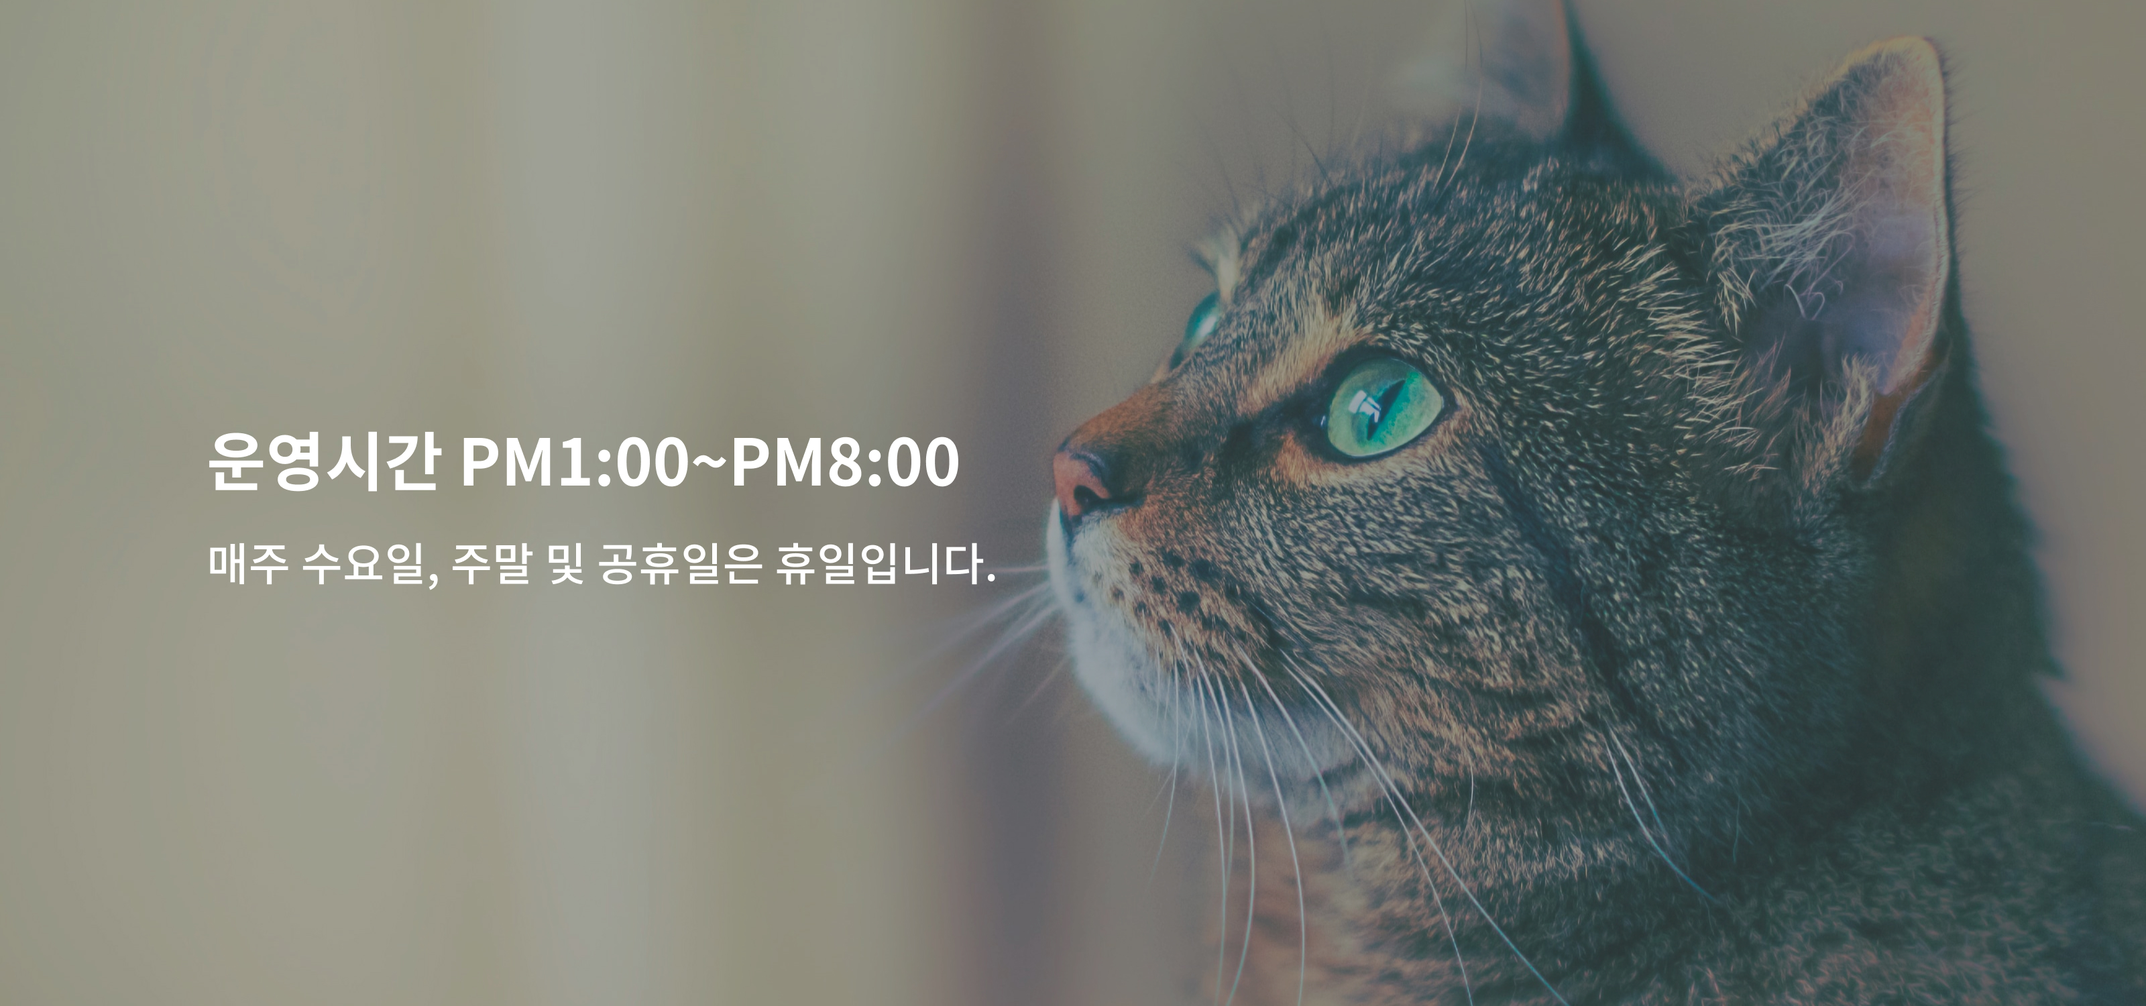
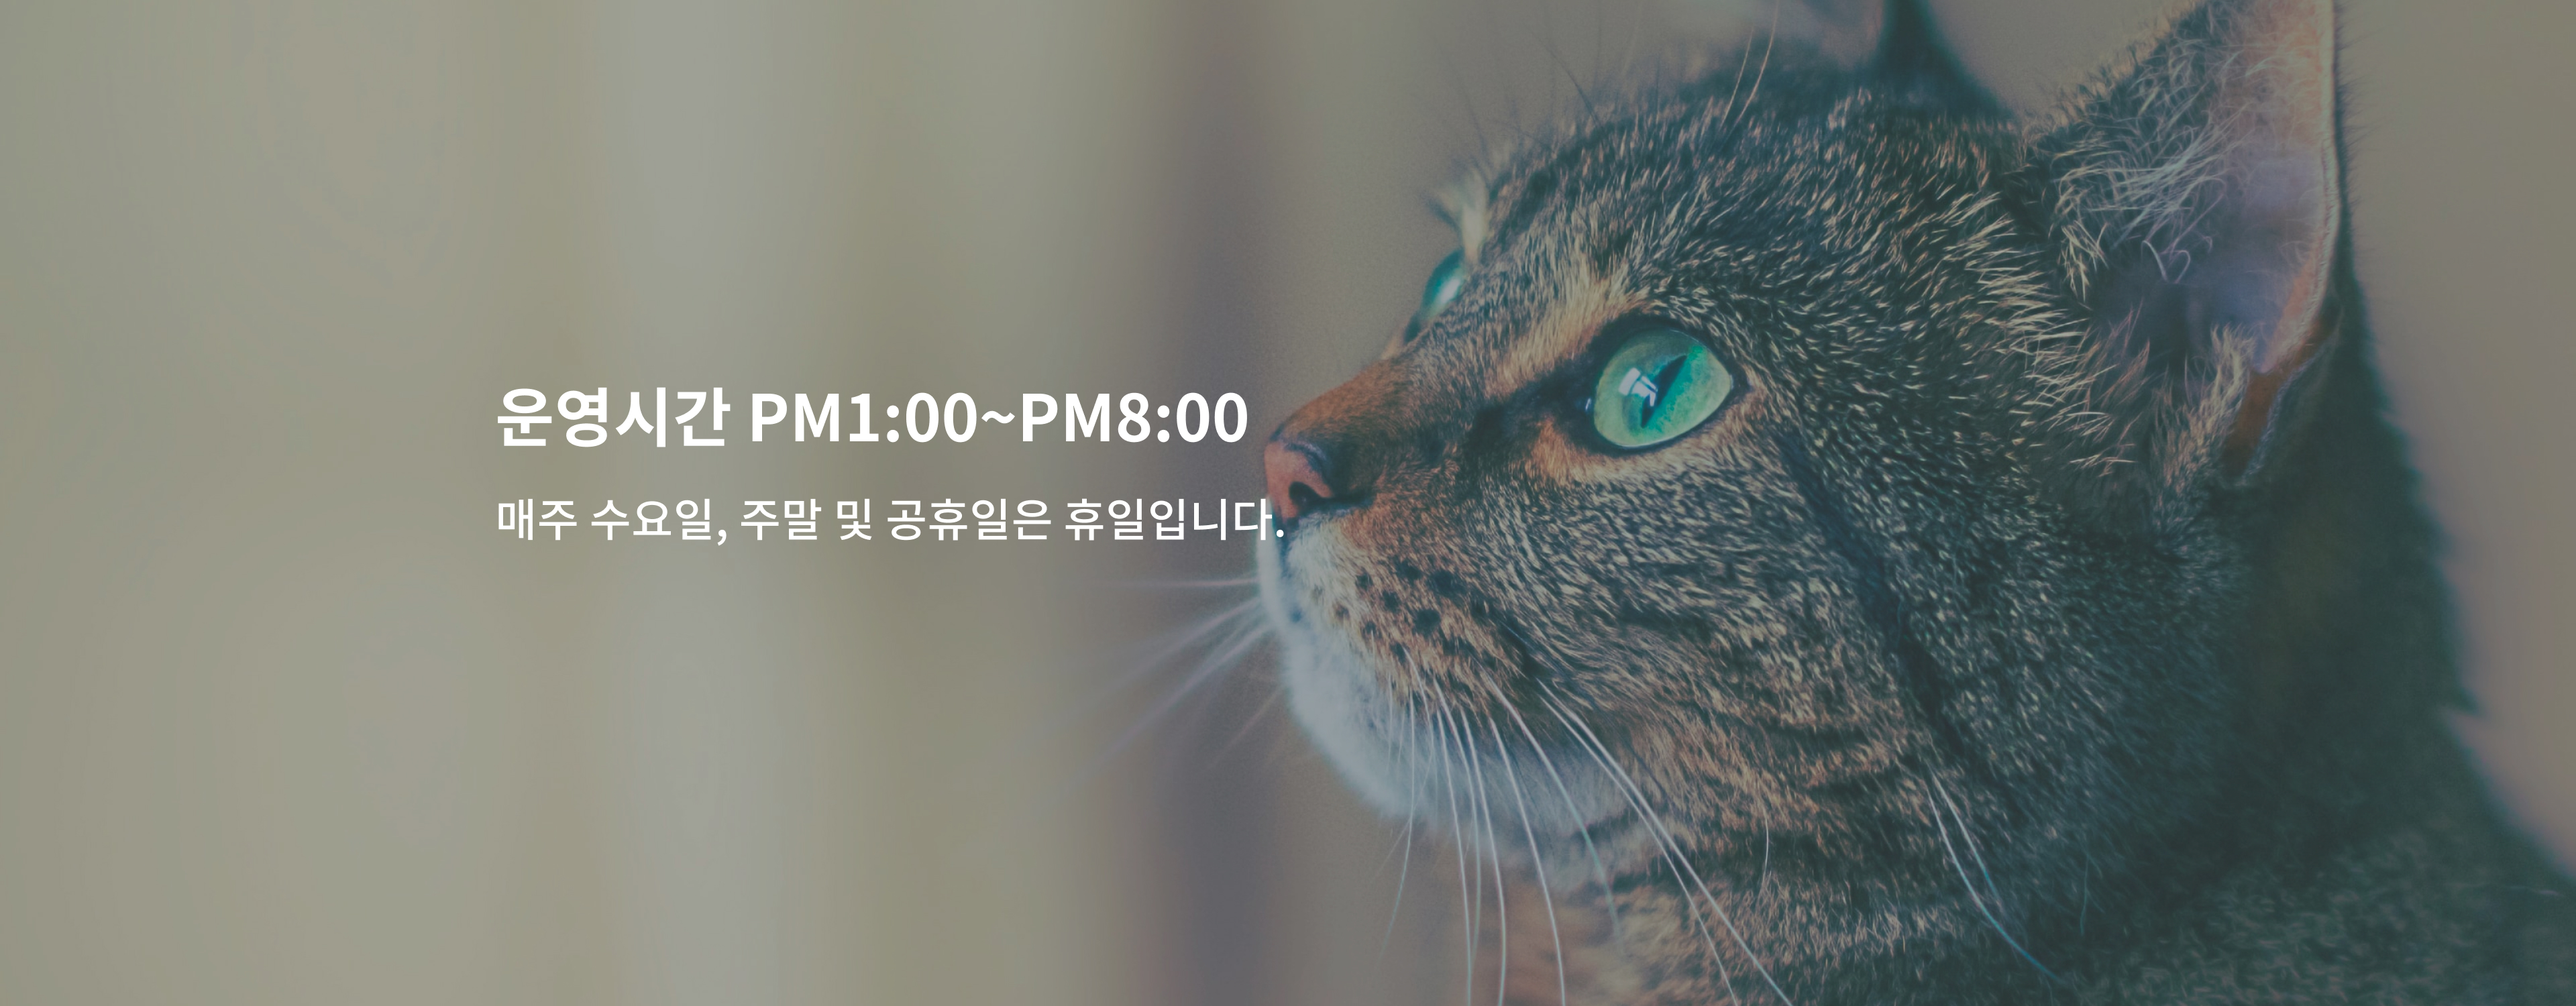
Add files via upload

diff --git a/css/style.css b/css/style.css
@@ -24,7 +24,7 @@
 
   header {
     width: 100%;
-    height: 84px;
+    height: 90px;
     /* background: #ccc; */
     position: relative;
     border-bottom: 3px solid var(--main-color);
@@ -37,7 +37,7 @@
   }
 
   .container h1 {
-    margin-top: 16px;
+    margin-top: 10px;
   }
 
   .container h1 img {
@@ -47,7 +47,7 @@
   #top-menu {
     position: absolute;
     right: 0;
-    top: 15px;
+    top: 10px;
   }
   
   #top-menu a {
@@ -62,7 +62,7 @@
   }
   
   header h1 {
-    padding-top: 18px;
+    padding-top: 20px;
   }
   
   #gnb {
@@ -84,7 +84,7 @@
   /* main-banner */
   
   #main-banner {
-    width: 1600px;
+    width: 100%;
     height: 750px;
     margin: 0 auto;
     overflow: hidden;
@@ -92,13 +92,13 @@
   }
 
   #main-banner .container {
-    width: 100%;
+    width: 1920px;
     height: 750px;
     position: absolute;
     margin: 0 auto;
     top: 0;
     /* 배너 중앙 배치 = 배너 너비 1/2 땡김 */
-    left: calc(50% - 800px);
+    left: calc(50% - 960px);
   }
   
   #main-banner img {
